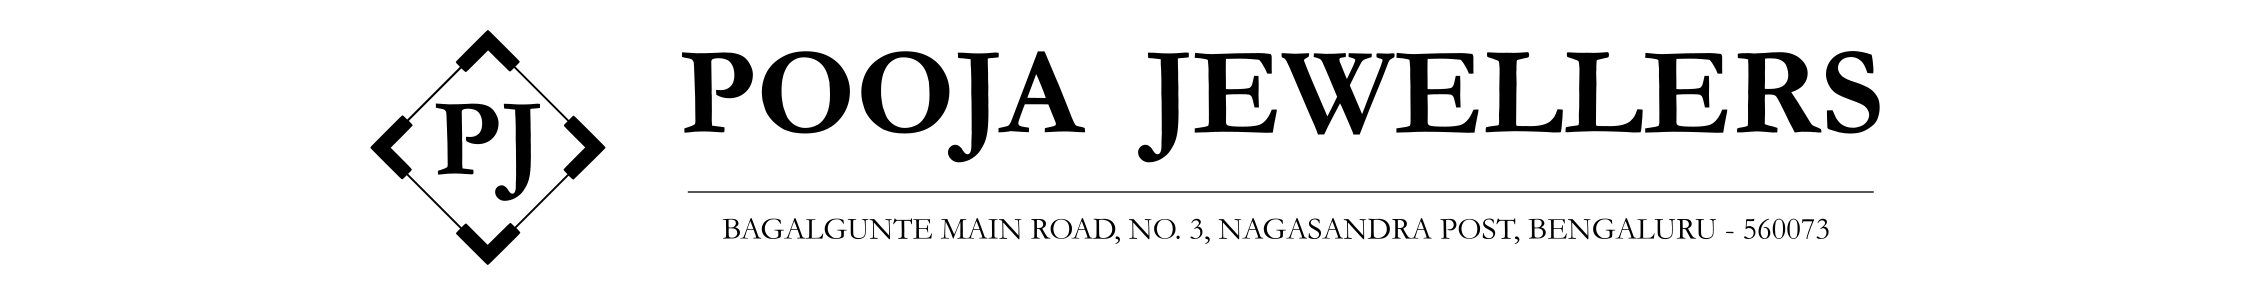
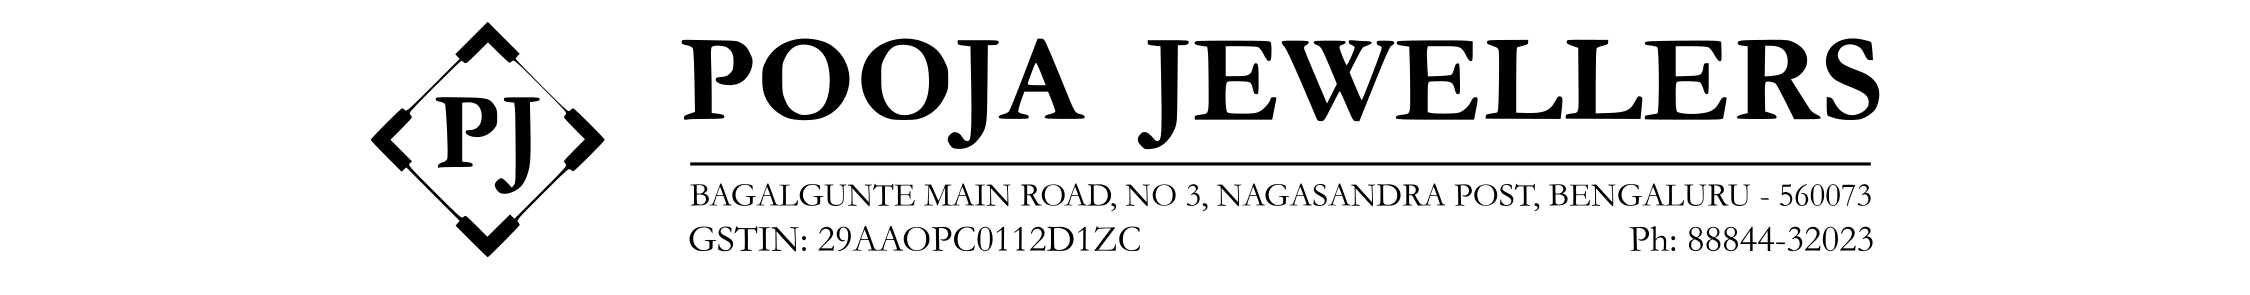
Add files via upload
Added
Customer GSTIN input
Manual Invoice number input

Changed
invoice header to include contact details

Changed region(s): [[0.1556, 0.0915, 0.84, 0.8847], [0.3111, 0.7322, 0.84, 0.8542], [0.3111, 0.6102, 0.84, 0.7017]]

diff --git a/index.html b/index.html
@@ -1,3 +1,4 @@
+
 <!DOCTYPE html>
 <html lang="en">
 
@@ -94,11 +95,19 @@
 
         <img src="page-header.png" style="width:350px; margin-top:0;">
 
+        <label>Invoice Number</label>
+        <input type="text" id="invoiceNumber" style="text-transform: uppercase;" autocomplete="off">
+
+
         <label>Customer Name</label>
         <input type="text" id="customerName" style="text-transform: uppercase;" autocomplete="off">
 
         <label>Mobile Number</label>
         <input type="text" id="mobileNumber" maxlength="10" autocomplete="off">
+
+        <label>Customer GSTIN</label>
+        <input type="text" id="gstin" style="text-transform: uppercase;" maxlength="15" autocomplete="off">
+
 
 <!--    
         <label>Rate</label>   
@@ -540,8 +549,11 @@ tableHTML += `<tr>
         function generateInvoiceNew() {
             console.log("Generating Invoice");
 
+            var invoiceNumber = document.getElementById('invoiceNumber').value || ""; 
             var customerName = document.getElementById('customerName').value || "Estimate";
             var mobileNumber = document.getElementById('mobileNumber').value || "";
+            var gstin = document.getElementById('gstin').value.toUpperCase() || "";
+
 
             var totalGross = 0;
             var totalNett = 0;
@@ -558,10 +570,8 @@ tableHTML += `<tr>
             totalNett = formatNumber(totalNett, 3);
 
             let discount = document.getElementById('discount').value;
-
             var today = new Date().toLocaleDateString('en-GB').replace(/\//g, '-');
-
-            
+            let gstPercent = document.getElementById("gstPercent").value || 0;
 
             let tableHTML = `
 
@@ -656,12 +666,26 @@ tableHTML += `<tr>
 
             <img src="invoice-header.png" style="width: 190mm;">
             <table>
-      
+
       <tr>
-        <td colspan="8" style="height:45px; border-right:none;"> Details of Receiver(Billed to): ${customerName.toUpperCase()} 
-        <div style="height:10px;"></div>    
-        Mobile: ${mobileNumber}</td>
-        <td colspan="2" style="border-left: none; vertical-align: top; text-align:right; padding-right: 25px; padding-top: 15px;"> Date: ${today} </td>
+        <td colspan="8" style="height:45px; border-right:none; padding-top: 3px;"> Details of Receiver(Billed to): ${customerName.toUpperCase()}
+        <div style="height:4px;"></div>
+        Mobile: ${mobileNumber}
+        <div style="height:4px;"></div>
+        
+        `;
+      
+        
+if (gstin != "" && gstPercent != 0) {
+                tableHTML += `GSTIN: ${gstin}`;
+            }
+
+
+      tableHTML += `
+      </td>
+        <td colspan="2" style="border-left: none; vertical-align: top; text-align:right; padding-right: 25px; padding-top: 5px;"> Date: ${today}
+            <div style="height:4px;"></div>
+            Invoice Num: ${invoiceNumber} </td>
       </tr>
     
       <tr class="bold">
@@ -675,7 +699,7 @@ tableHTML += `<tr>
         <td style="width: 16mm; text-align:center;">MC/gm</td>
         <td style="width: 16mm; text-align:center;">Other</td>
         <td style="width: 25mm; text-align:center;">Amount</td>
-      </tr>`
+      </tr>`;
 
             document.querySelectorAll('.itemDiv').forEach(itemDiv => {
                 let itemName = itemDiv.querySelector('.itemName').value || "Miscellaneous";
@@ -707,7 +731,7 @@ tableHTML += `<tr>
             `;
             });
 
-            let gstPercent = document.getElementById("gstPercent").value || 0;
+  
             let gstAmount = document.getElementById('hiddenGSTAmt').value || 0;
             let grandTotal = formatIndianCurrencyNew(document.getElementById('hiddenGrandTotal').value, 2);
             let grandTotalAfterGST = document.getElementById('hiddenGrandTotalAfterGST').value;
@@ -742,7 +766,7 @@ tableHTML += `<tr>
                     <td></td>
                     <td></td>
                     <td></td>
-                    <td colspan="2">GST:</td>
+                    <td colspan="2">GST (${gstPercent}%)</td>
                     <td class="amtCell">${formatIndianCurrencyNew(gstAmount, 2)}</td>
                   </tr>
                  `
